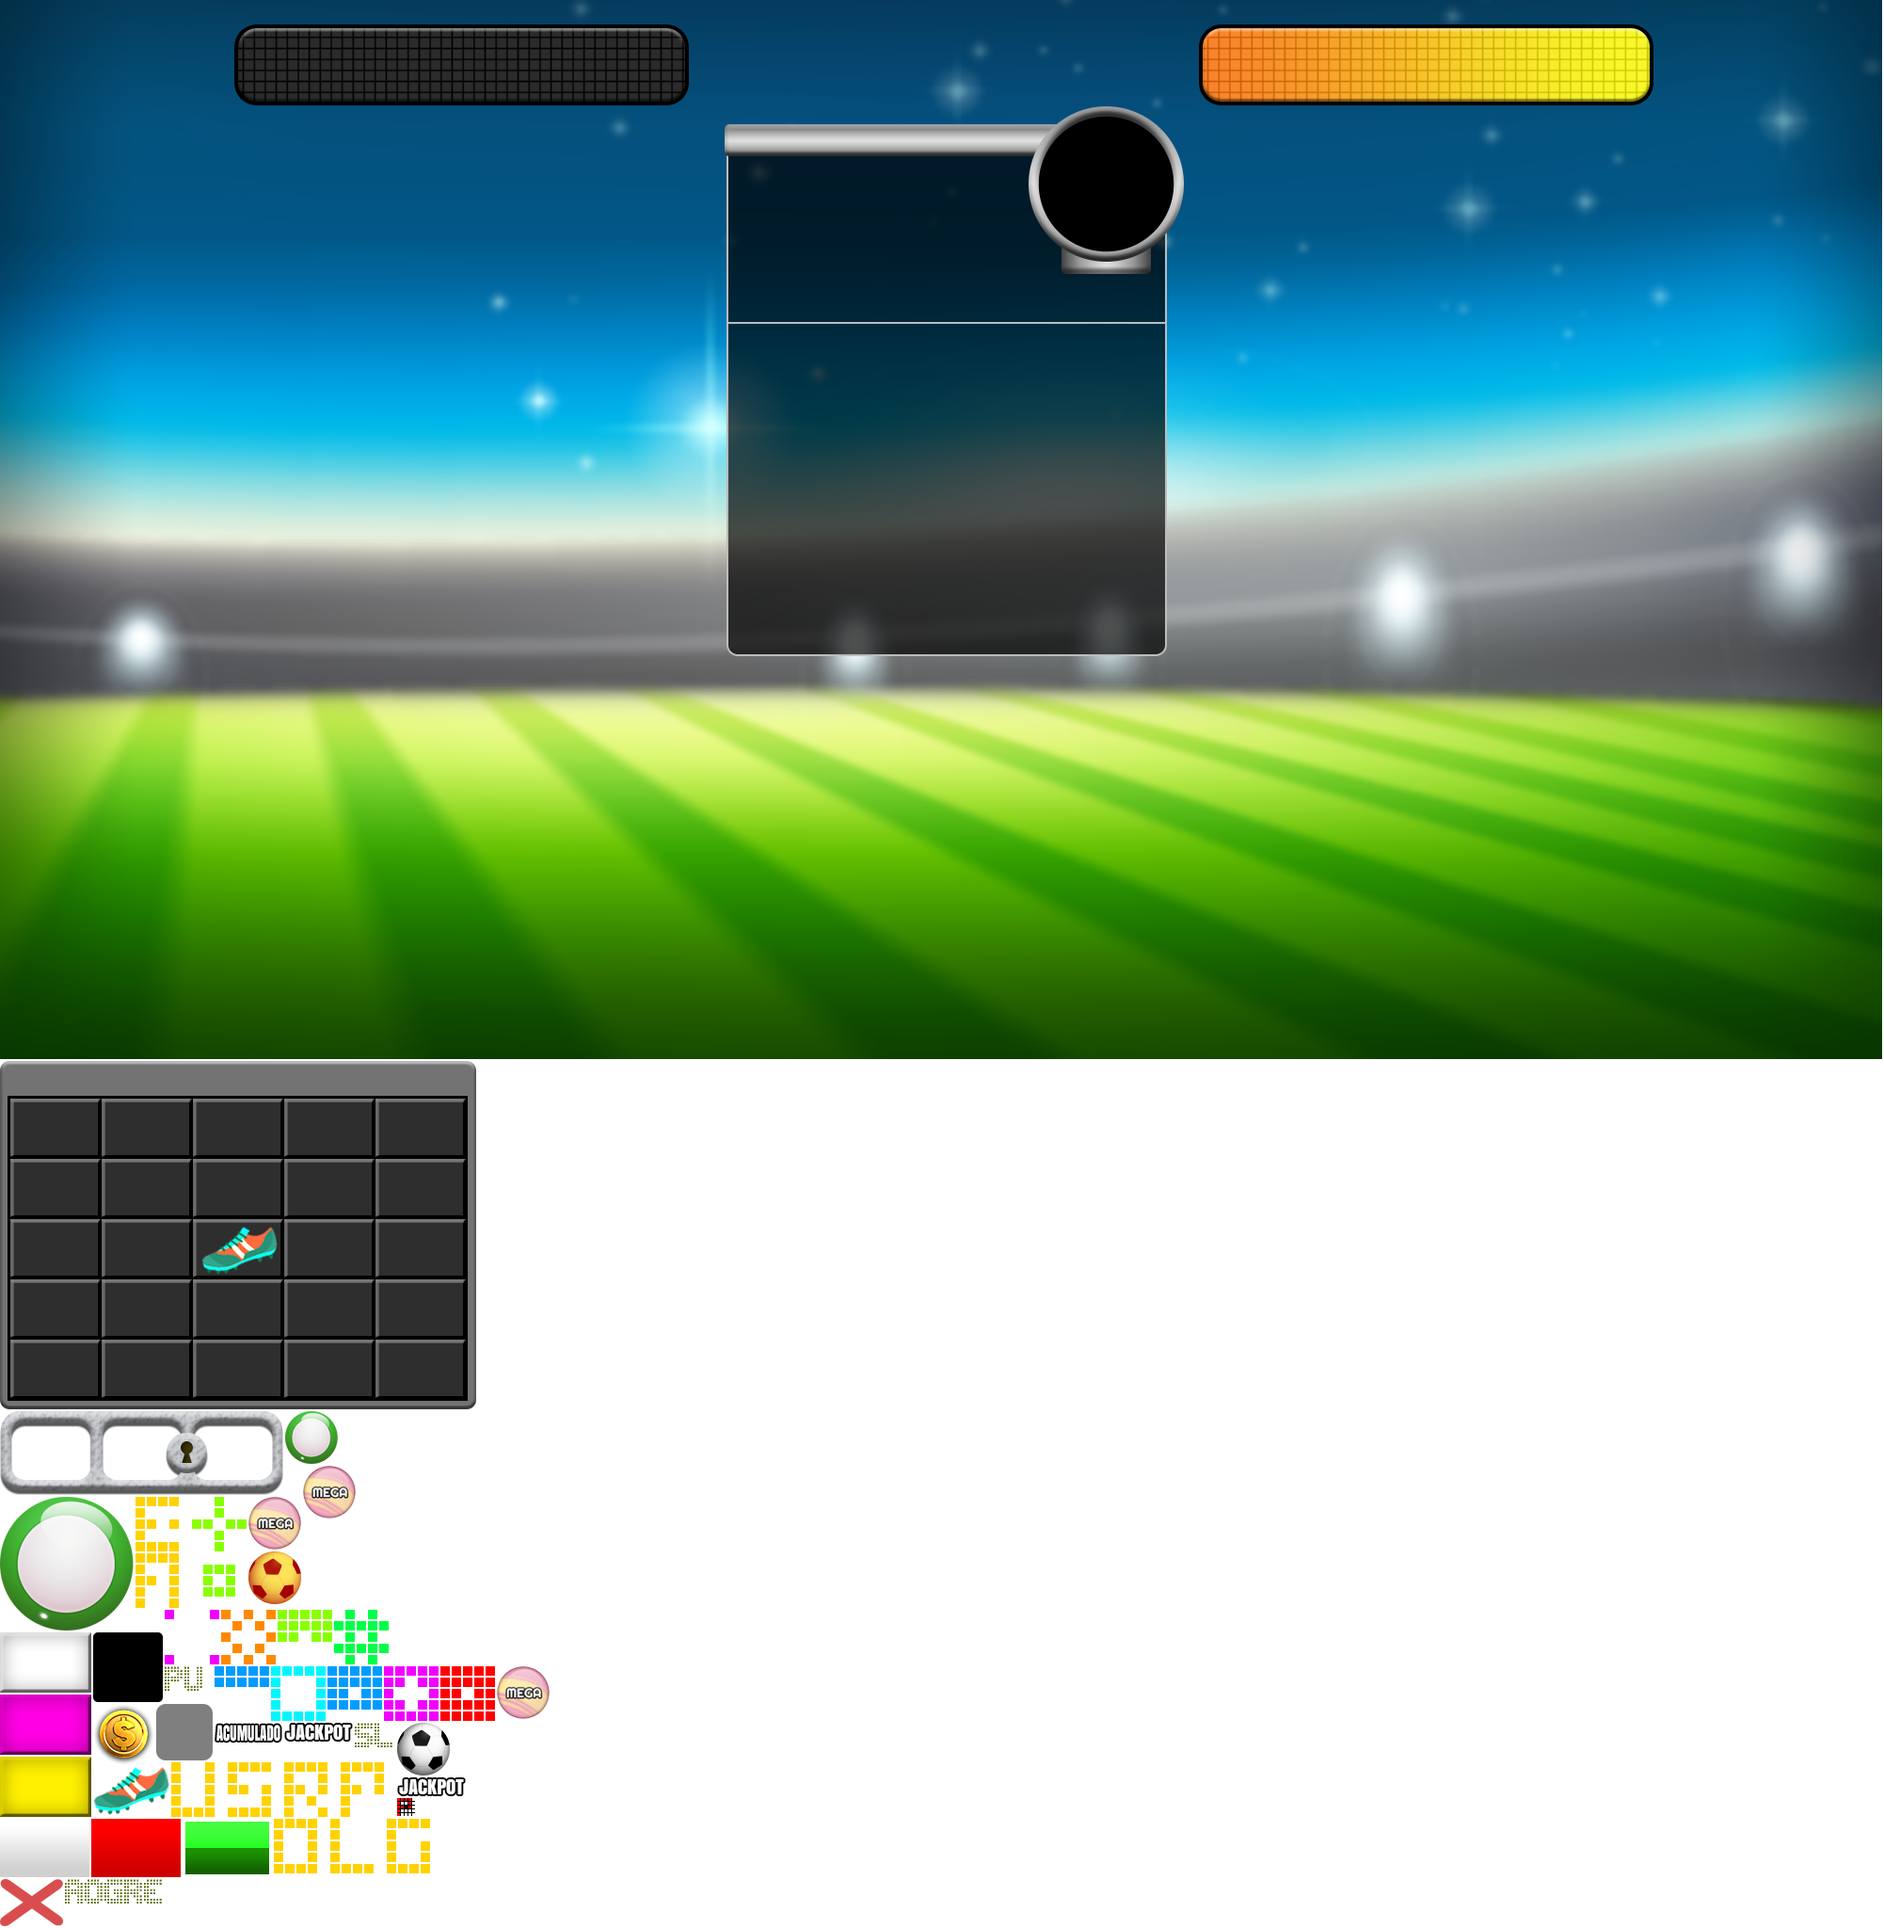
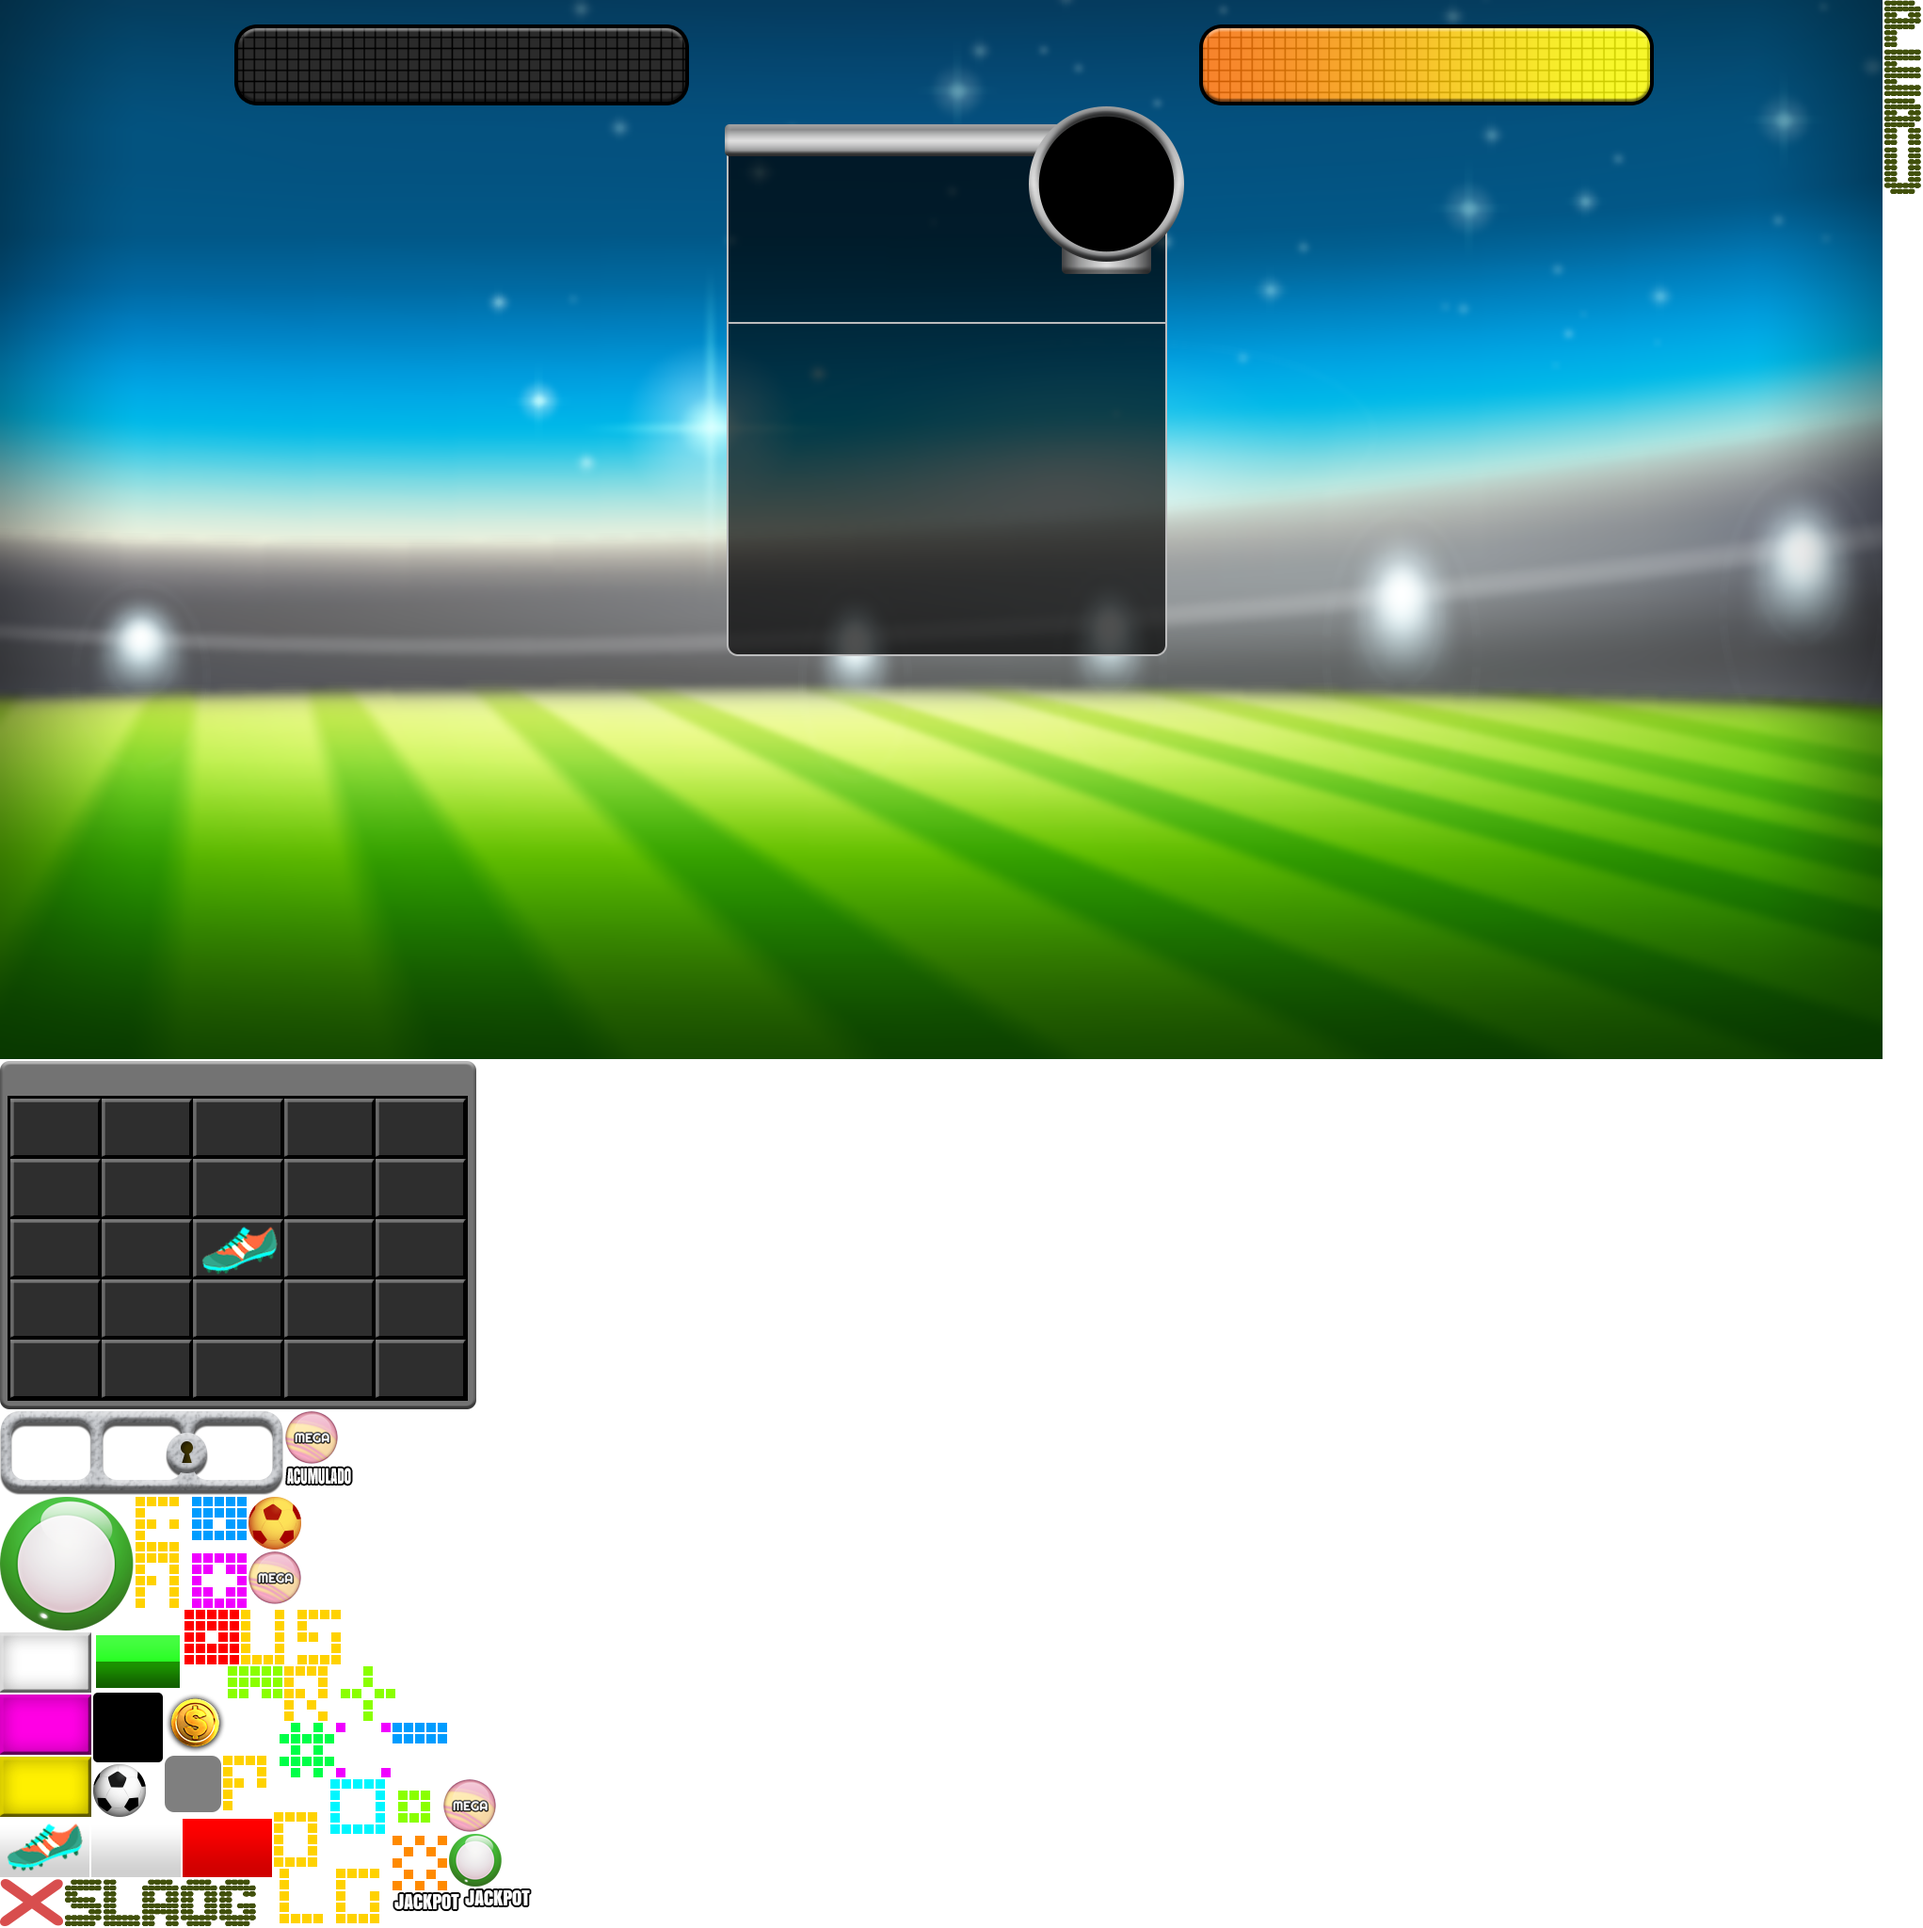
use super goal grid

diff --git a/newMoblie/src/bingoGames/v2games/superGoal/SuperGoal.ts b/newMoblie/src/bingoGames/v2games/superGoal/SuperGoal.ts
@@ -9,7 +9,7 @@ class SuperGoal extends V2Game{
     }
 
     public constructor( assetsPath: string ) {
-        super("pachampionko.conf", assetsPath, 70);
+        super("superGoal.conf", assetsPath, 70);
         this.languageObjectName = "superGoal_tx";
         this.megaName = "superGoal_mega";
 
@@ -26,7 +26,7 @@ class SuperGoal extends V2Game{
         CardManager.cardType = PachampionkoCard;
         CardManager.gridType = PachampionkoGrid;
 
-        CardGrid.defaultNumberSize = 20;
+        CardGrid.defaultNumberSize = 45;
 
         BallManager.ballOffsetY = 3;
 
@@ -34,10 +34,6 @@ class SuperGoal extends V2Game{
         this.ballArea.needLightCheck = true;
 
         PayTableManager.bingoPaytableName = "pachinko_bingo";
-    }
-
-    private combinPaytableString( str: string ){
-        return "champion_grid_" + str;
     }
 
     protected init(){
@@ -57,7 +53,7 @@ class SuperGoal extends V2Game{
 
         this.letsPachampionko();
 
-        ( this.getChildByName( this.assetStr( "jackpot_pt" ) ) as egret.Bitmap ).texture = RES.getRes( this.assetStr( "jackpot_" + GlobelSettings.language ) );
+        // ( this.getChildByName( this.assetStr( "jackpot_pt" ) ) as egret.Bitmap ).texture = RES.getRes( this.assetStr( "jackpot_" + GlobelSettings.language ) );
 
         this.ganhoCounter = new GanhoCounter;
     }

diff --git a/newMoblie/src/Main.ts b/newMoblie/src/Main.ts
@@ -47,7 +47,7 @@ class Main extends egret.DisplayObjectContainer {
     }
 
 	private showGame(){
-		this.currentGame = new Pachinko("resource/default.res.json");
+		this.currentGame = new SuperGoal("resource/default.res.json");
 
 		const loadingView = new LoadingUI();
 		this.currentGame.preLoader = loadingView;
